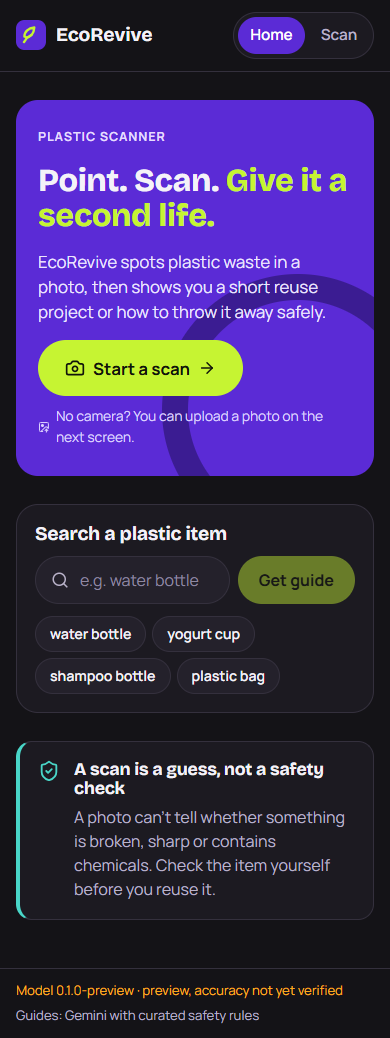
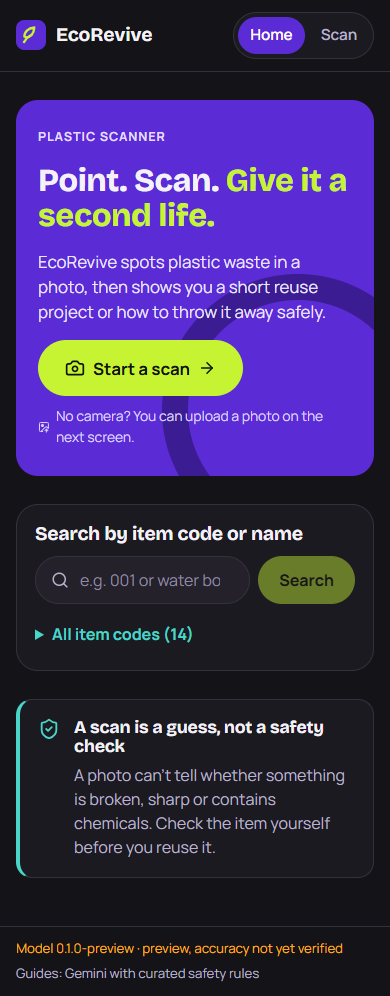
Document item codes in the README

diff --git a/README.md b/README.md
@@ -1,6 +1,6 @@
 # EcoRevive
 
-Scan a piece of plastic waste, see what it is, and get a practical upcycling idea, or search an item by name.
+Scan a piece of plastic waste, or type an item code such as 001 (water bottle), to get its recycling steps and an upcycling project. The 14 coded items are listed in shared/plastic_catalog.json and on the site.
 
 **Live (preview):** https://ecorevive-khaki.vercel.app. Hosted on Vercel's free plan, plastic-only mode, model `0.1.0-preview`.
 
